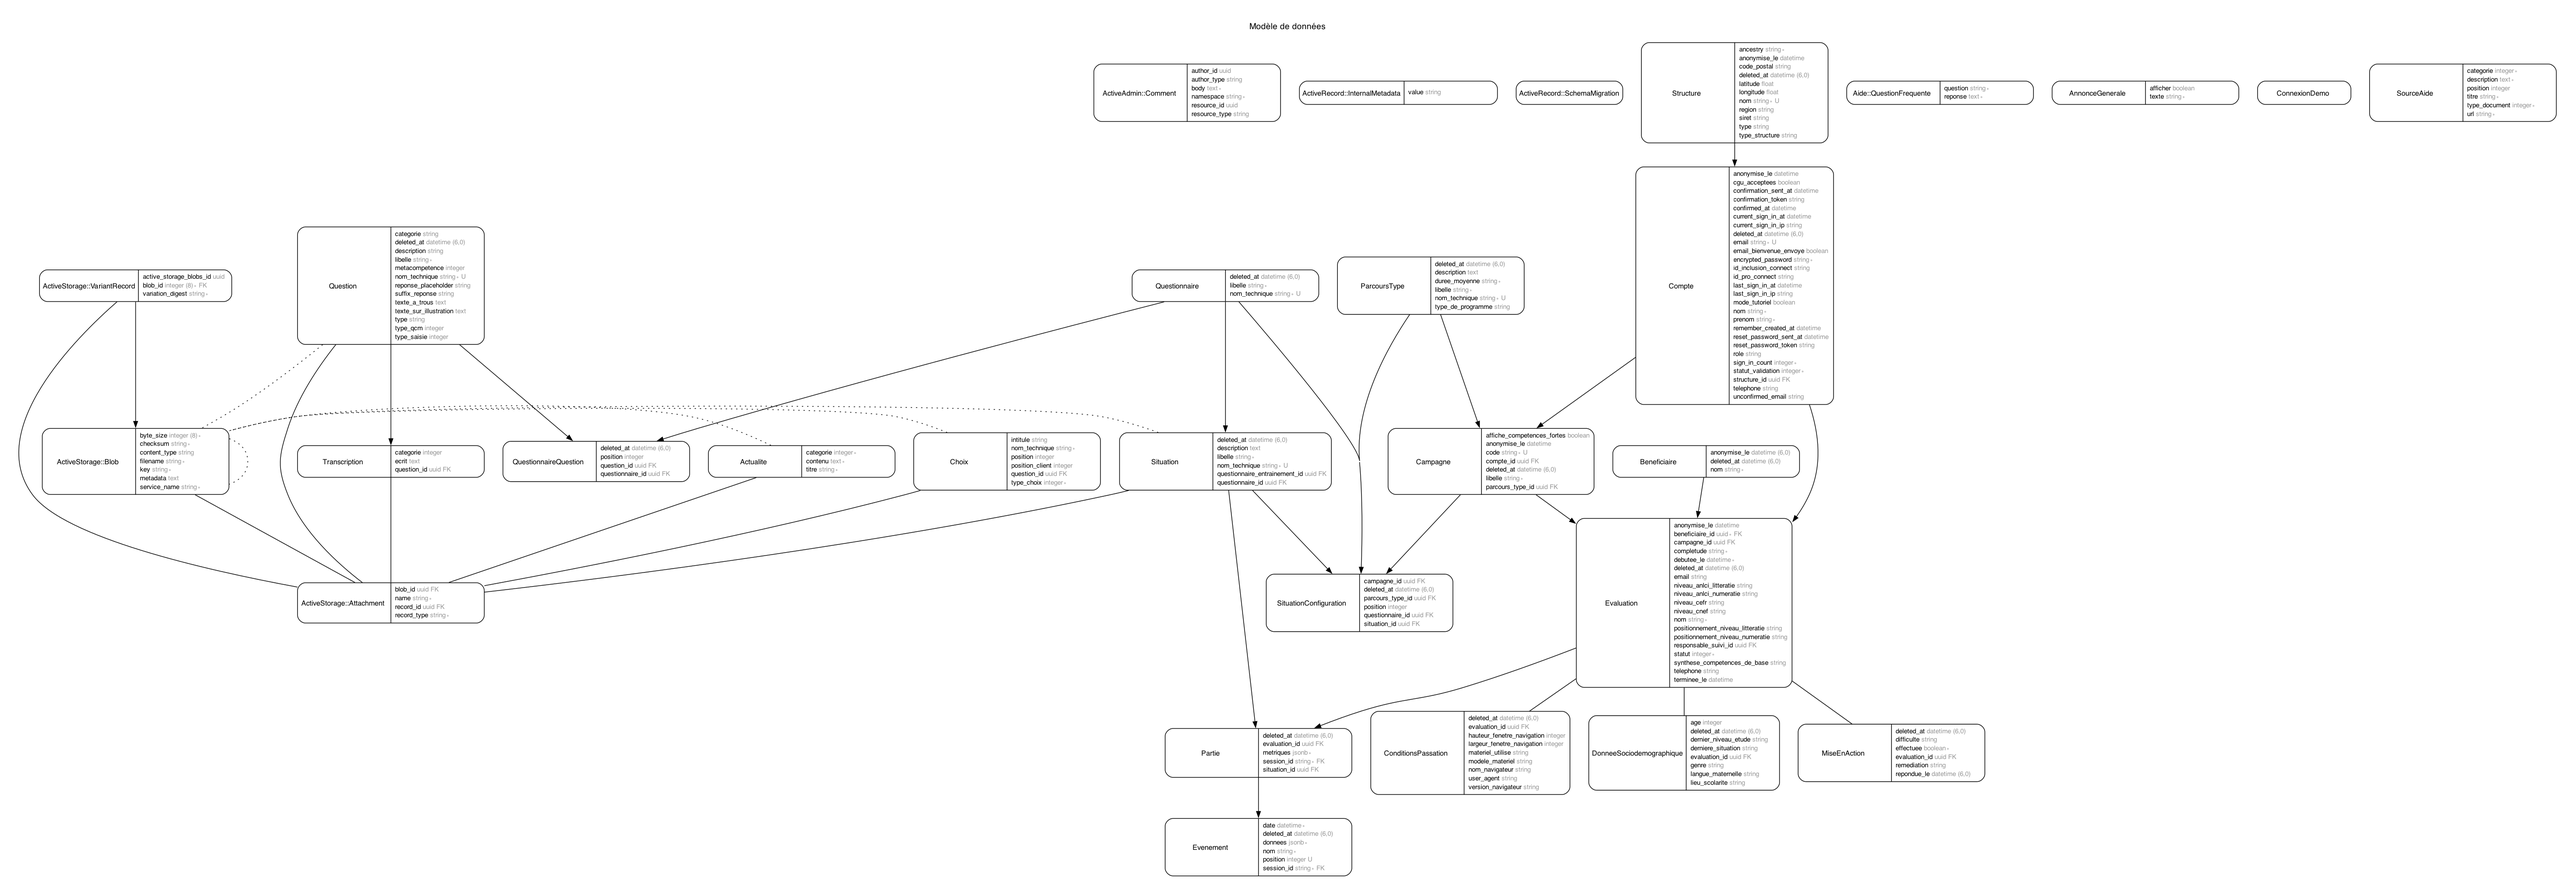
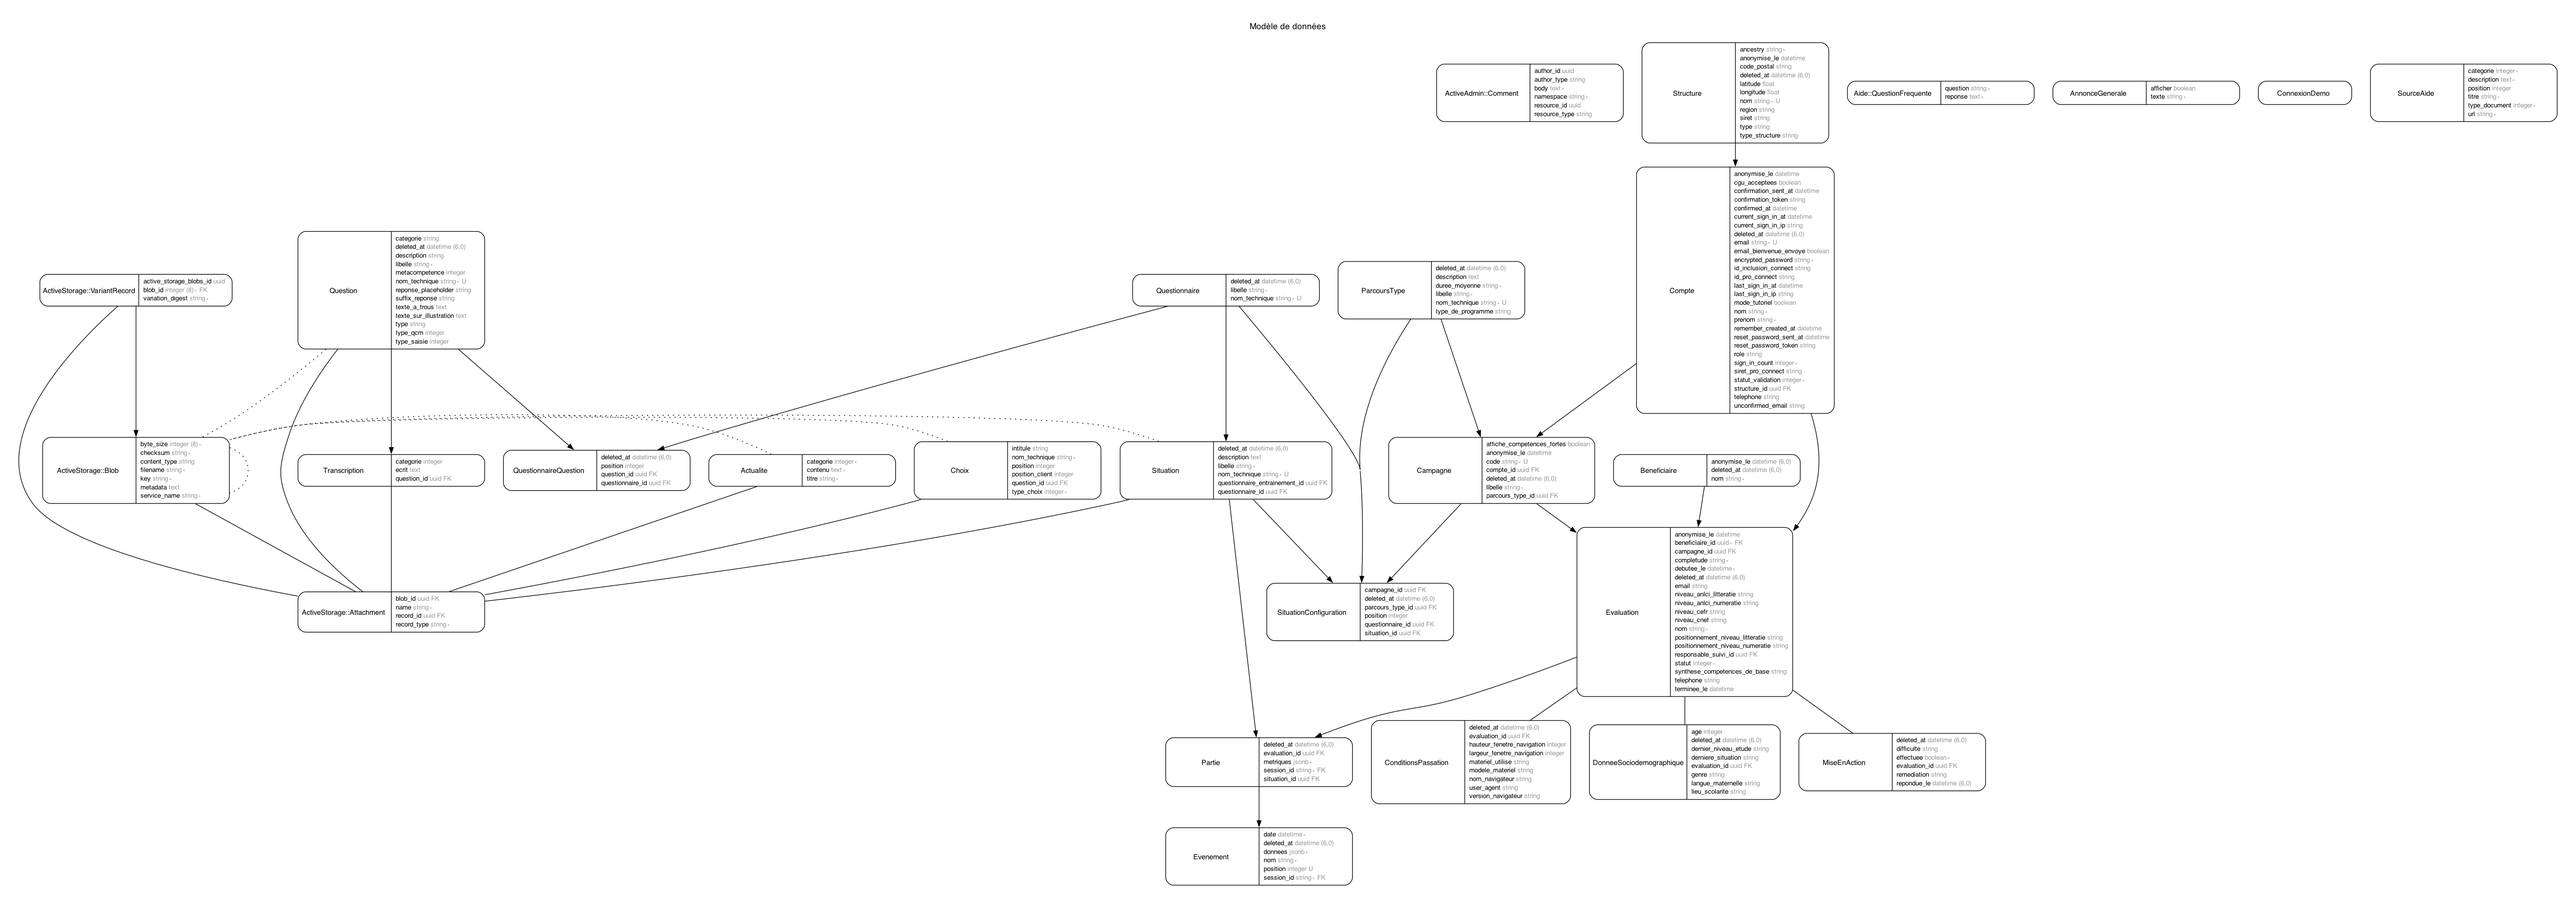
ajoute la colonne comptes.siret_pro_connect

diff --git a/db/schema.rb b/db/schema.rb
@@ -141,6 +141,7 @@ ActiveRecord::Schema[7.0].define(version: 2024_11_22_062224) do
     t.string "id_inclusion_connect"
     t.boolean "cgu_acceptees"
     t.string "id_pro_connect"
+    t.string "siret_pro_connect"
     t.index ["confirmation_token"], name: "index_comptes_on_confirmation_token", unique: true
     t.index ["deleted_at"], name: "index_comptes_on_deleted_at"
     t.index ["email"], name: "index_comptes_on_email", unique: true, where: "(deleted_at IS NULL)"

diff --git a/db/migrate/20241121151325_ajoute_colonne_siret_proconnect_aux_comptes.rb b/db/migrate/20241121151325_ajoute_colonne_siret_proconnect_aux_comptes.rb
@@ -1,0 +1,5 @@
+class AjouteColonneSiretProconnectAuxComptes < ActiveRecord::Migration[7.0]
+  def change
+    add_column :comptes, :siret_pro_connect, :string
+  end
+end
